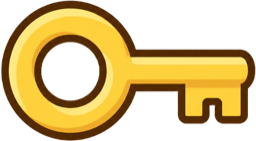
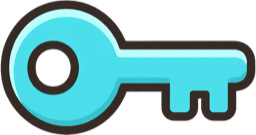
Update key and potion assets

diff --git a/src/game/scenes/PacRescueScene.ts b/src/game/scenes/PacRescueScene.ts
@@ -89,6 +89,7 @@ const EYE_CAT_WHITE_PLAYER_KEY = 'player-eye-cat-white'
 const EYE_CAT_PLAIN_PLAYER_KEY = 'player-eye-cat-plain'
 const COIN_SPRITE_KEY = 'coin-sprite'
 const KEY_ITEM_KEY = 'item-key'
+const KEY_ITEM_YELLOW_KEY = 'item-key-yellow'
 const POWER_UP_ITEM_KEY = 'item-power-up'
 const RESCUE_CAT_KEY = 'rescue-cat'
 const CAMERA_SMOOTHING = 4.5
@@ -147,6 +148,7 @@ export class PacRescueScene extends Phaser.Scene {
       this.load.image(COIN_SPRITE_KEY, '/characters/character-coin.png')
     }
     this.load.image(KEY_ITEM_KEY, '/characters/item-key.png')
+    this.load.image(KEY_ITEM_YELLOW_KEY, '/characters/item-key-yellow.png')
     this.load.image(POWER_UP_ITEM_KEY, '/characters/item-power-up.png')
     this.load.image(RESCUE_CAT_KEY, '/characters/character-white-cat.png')
   }
@@ -660,13 +662,15 @@ export class PacRescueScene extends Phaser.Scene {
   private drawKeySprites(keys: string[]): void {
     for (let index = 0; index < keys.length; index += 1) {
       const point = parseKey(keys[index])
-      const sprite = this.keySprites[index] ?? this.add.image(0, 0, KEY_ITEM_KEY).setOrigin(0.5).setDepth(1.25)
+      const textureKey = keys[index] === this.objective.lockedKey ? KEY_ITEM_YELLOW_KEY : KEY_ITEM_KEY
+      const sprite = this.keySprites[index] ?? this.add.image(0, 0, textureKey).setOrigin(0.5).setDepth(1.25)
       this.keySprites[index] = sprite
       const pulse = this.elapsed % 5
       const wiggle = pulse < 0.75 ? Math.sin(pulse * Math.PI * 8) : 0
       const bob = pulse < 0.75 ? Math.sin(pulse * Math.PI * 4) : 0
       const width = this.boardRect.tile * 0.58
       sprite
+        .setTexture(textureKey)
         .setVisible(true)
         .setPosition(this.cx(point.x) + wiggle * this.boardRect.tile * 0.035, this.cy(point.y) + bob * this.boardRect.tile * 0.025)
         .setDisplaySize(width, width * 0.55)
@@ -777,7 +781,7 @@ export class PacRescueScene extends Phaser.Scene {
       const sprite = this.chaserSprites[index] ?? this.add.image(0, 0, VACUUM_ENEMY_KEY).setOrigin(0.5).setDepth(2)
       this.chaserSprites[index] = sprite
 
-      const size = this.boardRect.tile * (chaser.inactive > 0 ? 0.82 : 1.04)
+      const size = this.boardRect.tile * (chaser.inactive > 0 ? 0.66 : 0.86)
       const movingUp = chaser.direction.y < 0
       const respawnFlicker = chaser.inactive > 0 && Math.floor(this.elapsed * 4 + index) % 2 === 0
       sprite